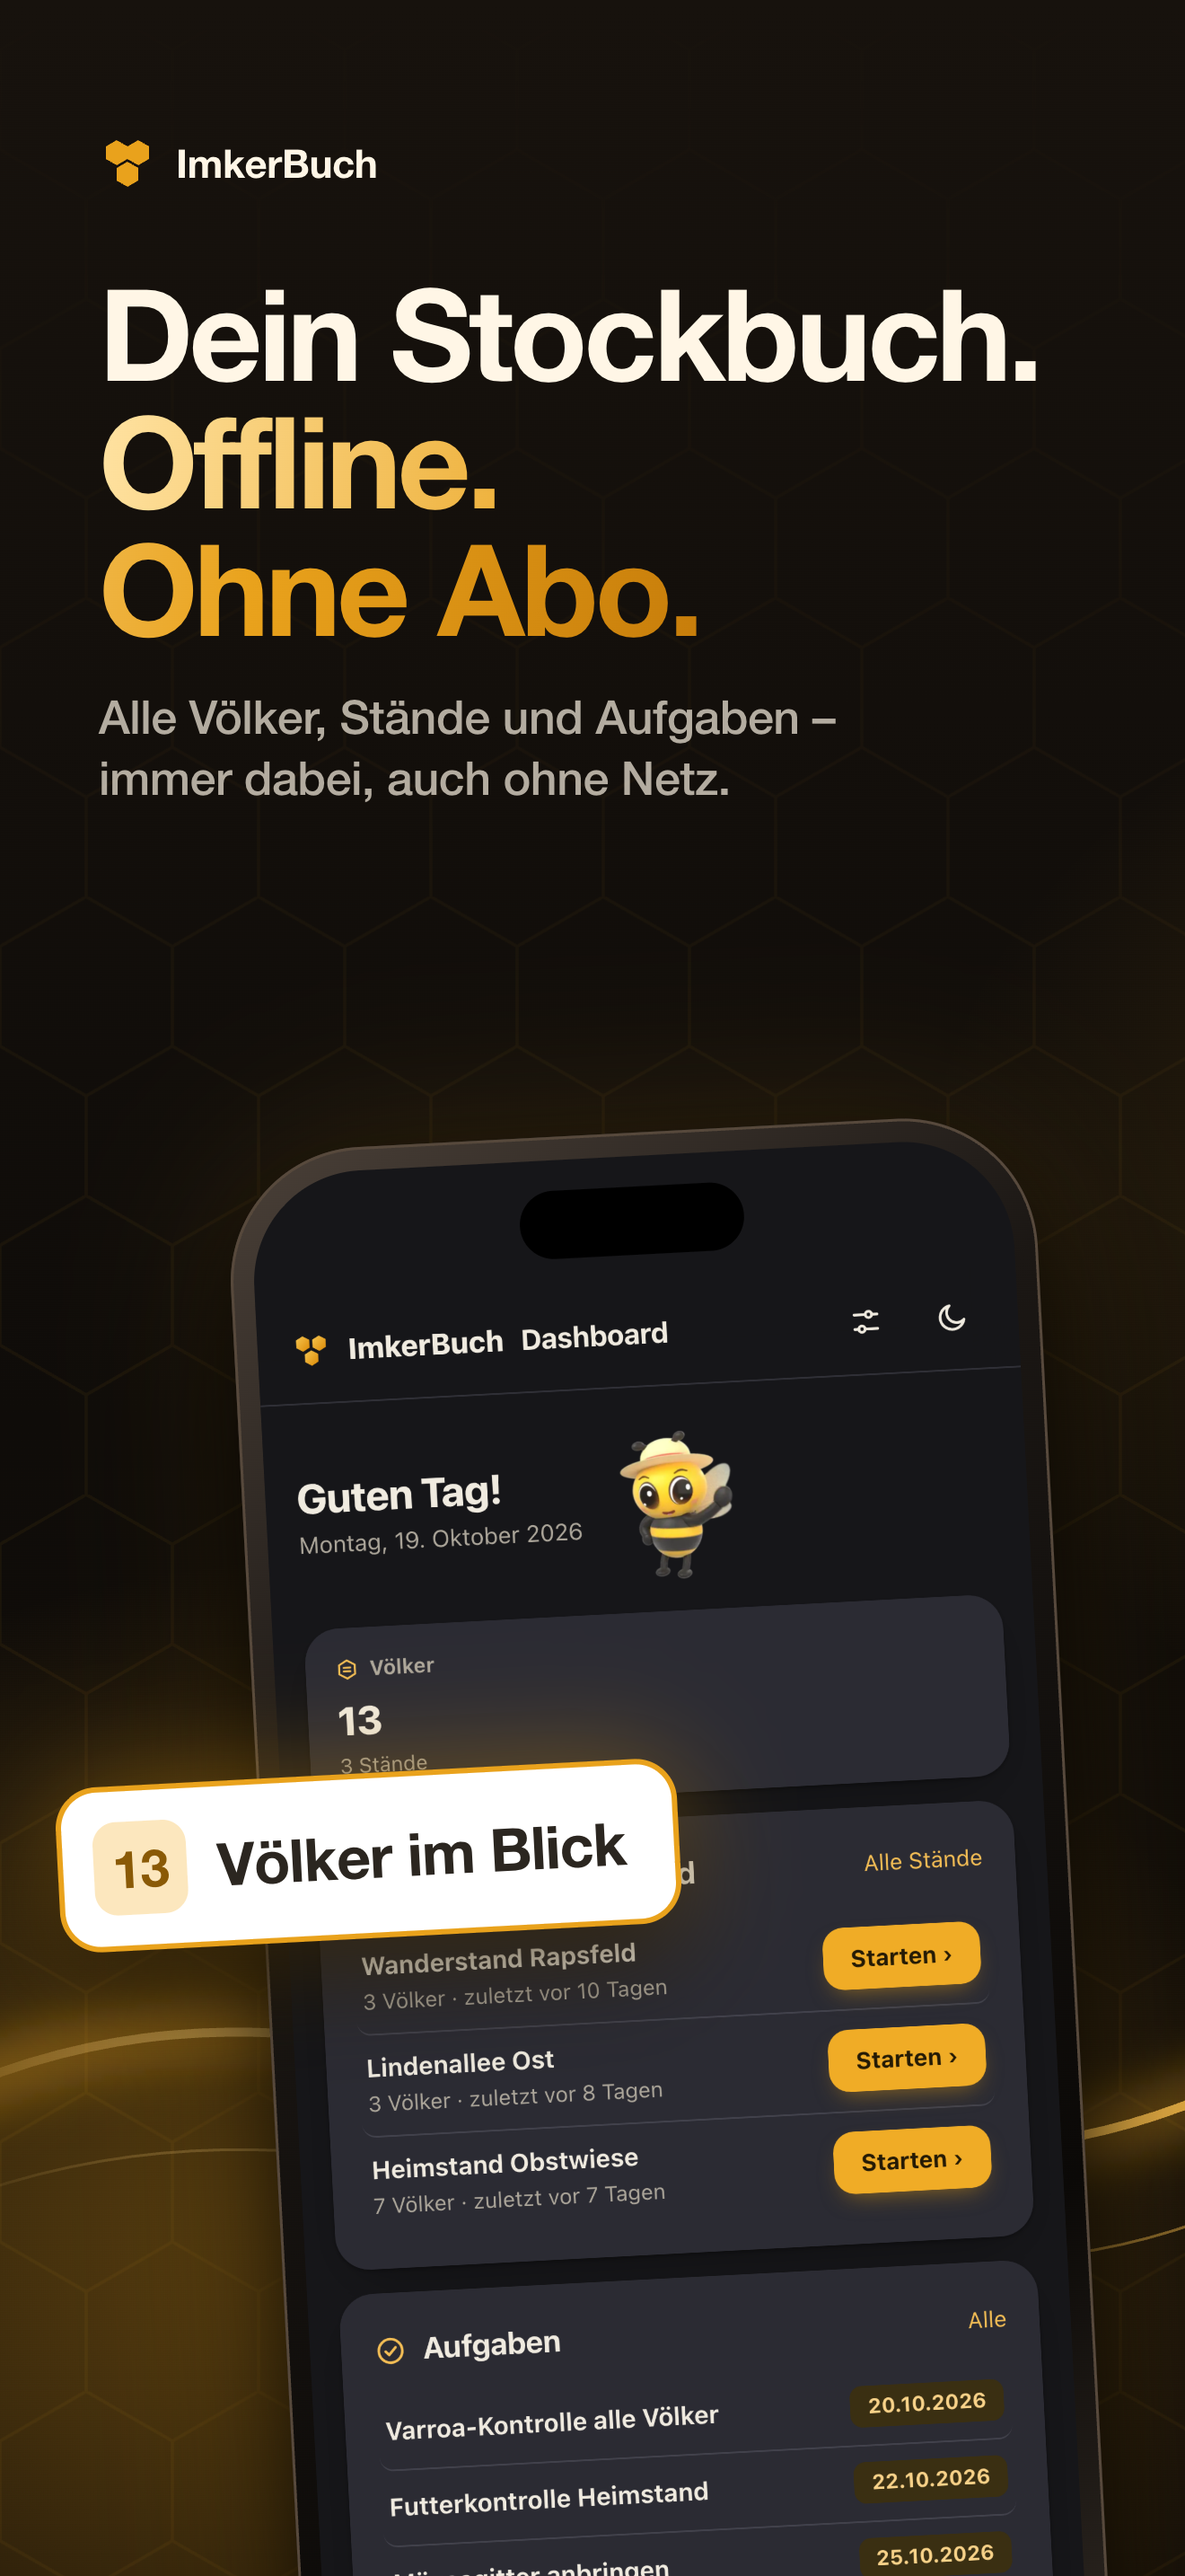
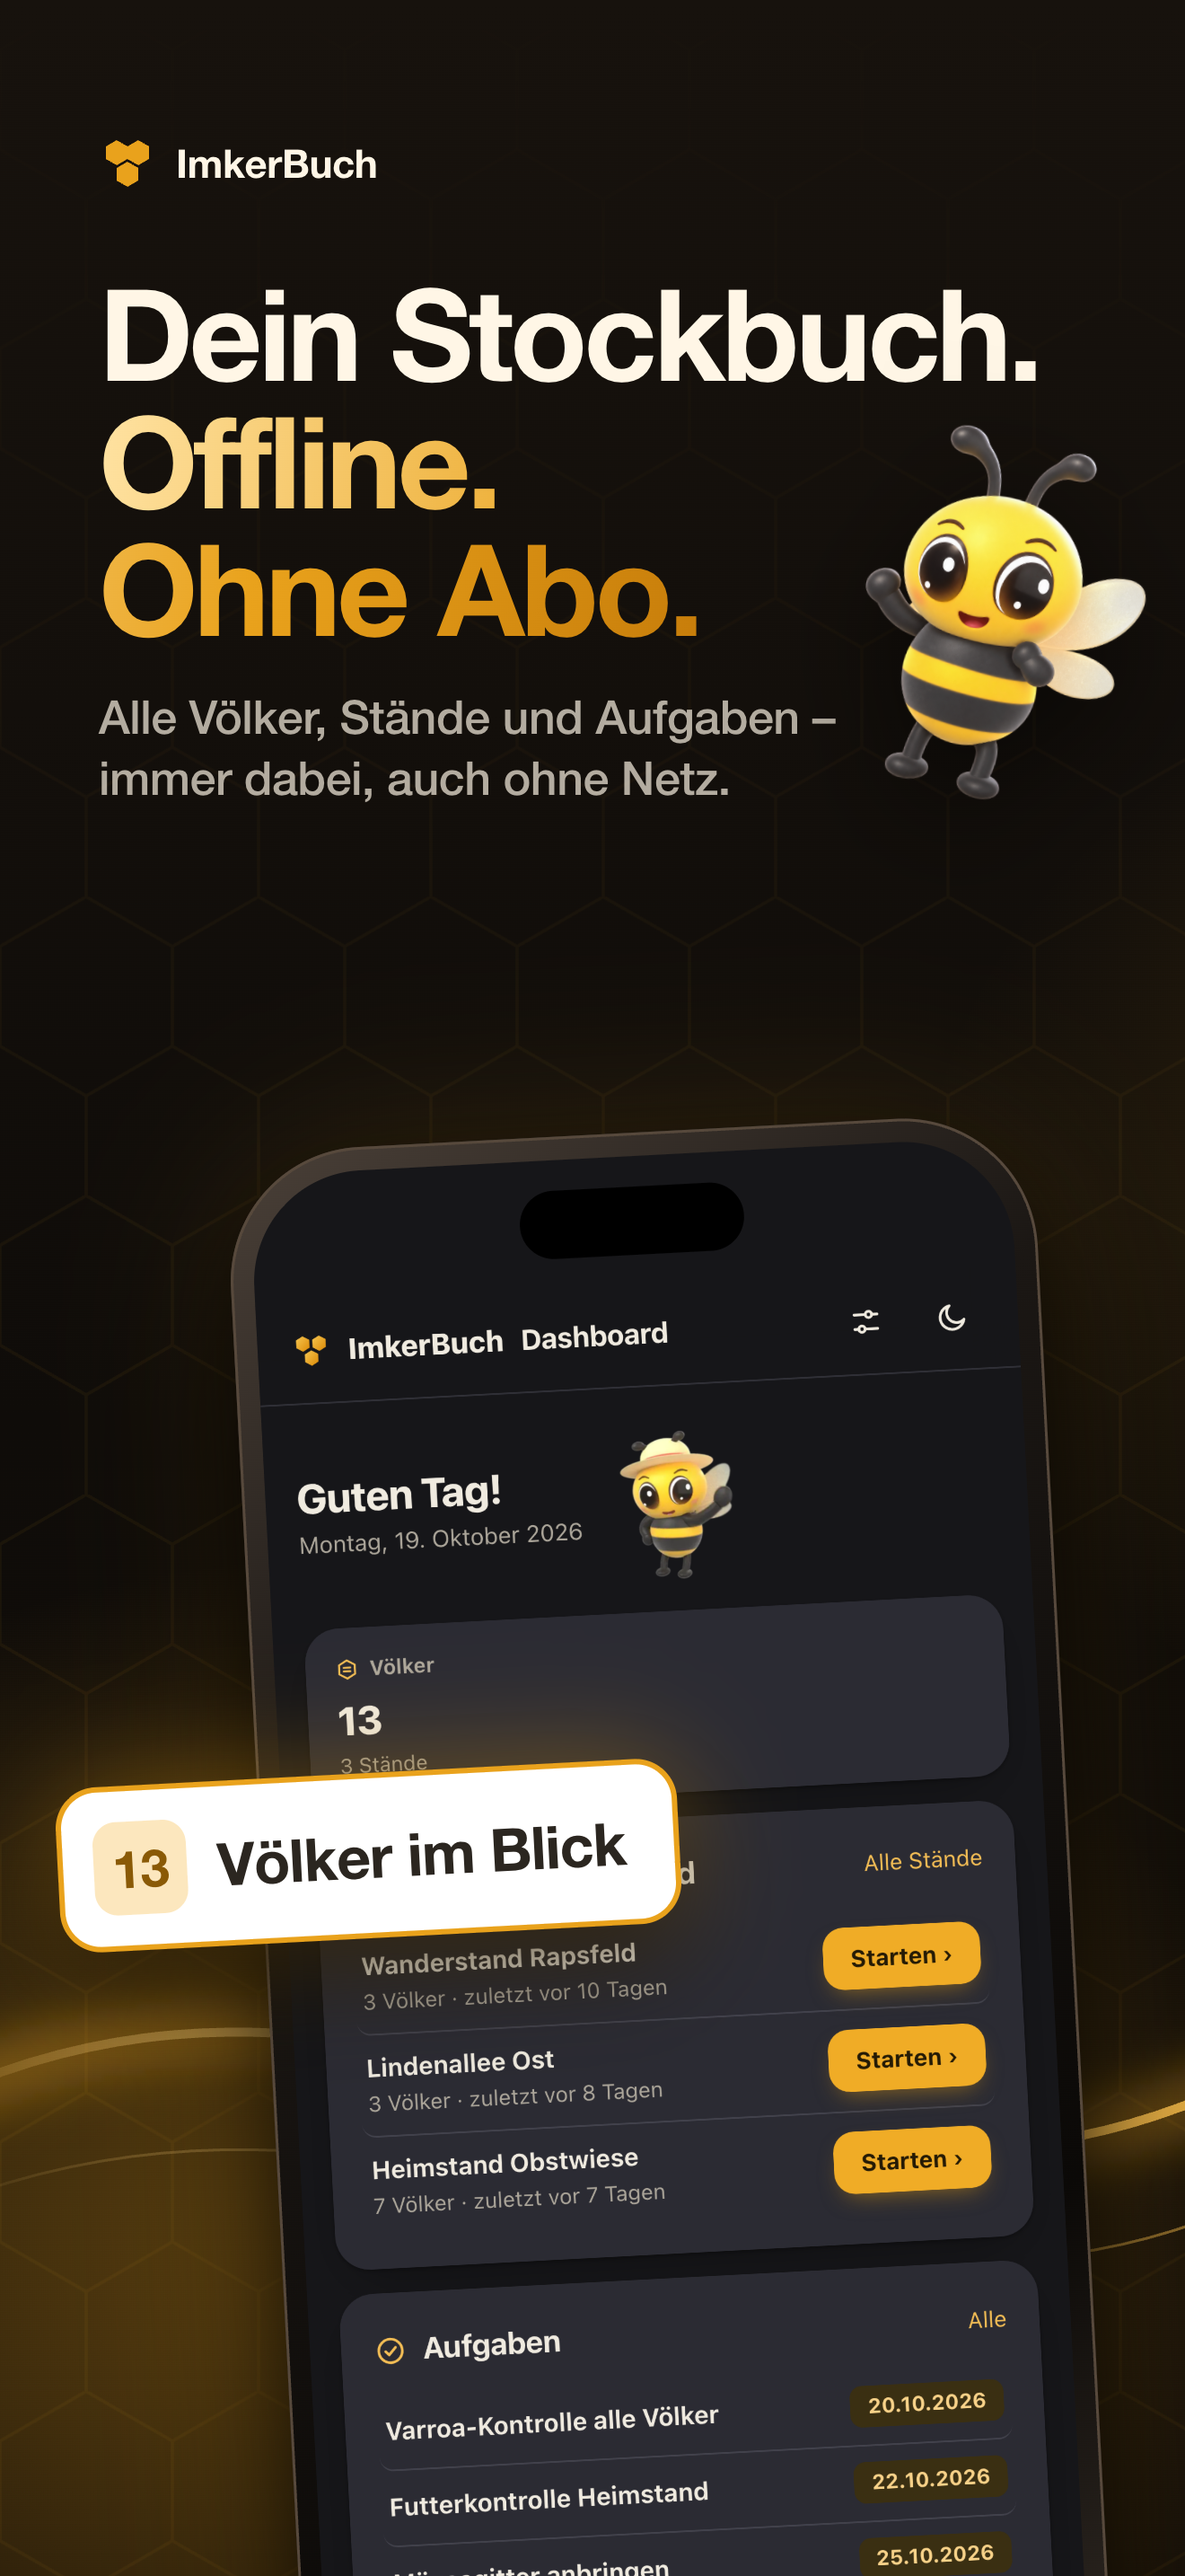
Store-Bilder: Bild 2 = Funktions-Wand (18 Bereiche, Tiefe für Imkerbetriebe), große Imme von Julian; Durchsicht wandert auf Bild 4

Changed region(s): [[0.7144, 0.1552, 0.9629, 0.3103]]

diff --git a/store-bilder/studio.html b/store-bilder/studio.html
@@ -58,6 +58,16 @@
     background: #FFFFFF; color: #2B2620; font-size: 66px; font-weight: 700; letter-spacing: -1px;
     box-shadow: 0 0 0 6px var(--honig), 0 50px 110px rgba(0,0,0,.55), 0 0 120px rgba(233,162,28,.45); }
   .pop .zahl { width: 104px; height: 104px; border-radius: 26px; background: #FCE7BE; color: #8A5A06; display: grid; place-items: center; font-size: 58px; }
+  /* Funktions-Wand (Bild 2) */
+  .wand { position: absolute; left: 80px; right: 80px; top: 1170px; display: grid; grid-template-columns: repeat(3, 1fr); gap: 26px; }
+  .kachel { position: relative; height: 252px; padding: 34px 30px; border-radius: 40px; background: rgba(34,27,20,.80);
+    border: 2px solid rgba(255,210,122,.20); backdrop-filter: blur(24px); -webkit-backdrop-filter: blur(24px);
+    box-shadow: 0 30px 70px rgba(0,0,0,.40); color: var(--creme); display: flex; flex-direction: column; justify-content: flex-end; }
+  .kachel .ic { position: absolute; top: 30px; left: 30px; width: 84px; height: 84px; border-radius: 24px;
+    background: linear-gradient(145deg, #FFD27A, #E9A21C); display: grid; place-items: center; }
+  .kachel .ic svg { width: 48px; height: 48px; stroke: #3A2604; }
+  .kachel b { font-size: 44px; font-weight: 700; letter-spacing: -.8px; line-height: 1.1; }
+  .kachel small { font-size: 31px; color: rgba(255,246,230,.60); margin-top: 6px; font-weight: 500; }
   .biene { position: absolute; filter: drop-shadow(0 40px 60px rgba(0,0,0,.5)); }
 </style>
 </head>
@@ -89,17 +99,13 @@
       <img src="roh/dashboard%SUFFIX%.png" alt="">
     </div></div>
     <div class="pop" style="left:70px; top:1980px; transform: rotate(-3deg);"><span class="zahl">13</span>Völker im Blick</div>
+    <img class="biene" src="imme-gross.png" style="left:950px; top:470px; width:330px; transform: rotate(6deg);" alt="">
   </section>
 
-  <!-- 2 · Kernhandlung -->
+  <!-- 2 · Tiefe: vom Hobby bis zum Imkerbetrieb -->
   <section class="feld">
-    <div class="titel"><h1>Durchsicht<br>am Stand.</h1><p>Eine Frage pro Bildschirm,<br>große Knöpfe – <em style="font-style:normal;color:#FFD27A">auch mit Handschuhen.</em></p></div>
-    <div class="phone" style="left:210px; top:1120px;"><div class="screen">
-      <div class="status"><span></span><div class="insel"></div><span class="rechts">%STATUS%</span></div>
-      <img src="roh/durchsicht%SUFFIX%.png" alt="">
-    </div></div>
-    <div class="pop" style="left:700px; top:2262px; transform: rotate(2deg);"><span class="zahl">4</span>gut</div>
-    <img class="biene" src="../assets/bini/happy.webp" style="left:930px; top:850px; width:340px; transform: rotate(8deg);" alt="">
+    <div class="titel"><h1>Mehr als ein<br>Stockbuch.<br><em>Dein ganzer<br>Imkerbetrieb.</em></h1><p>Vom ersten Volk bis zur Berufsimkerei.</p></div>
+    <div class="wand"><div class="kachel"><span class="ic"><svg viewBox="0 0 24 24" fill="none" stroke-width="1.9" stroke-linecap="round" stroke-linejoin="round"><path d="M4 7h16v5H4zM4 12h16v6H4zM9 18v2M15 18v2M8 9.5h8"/></svg></span><b>Stockkarte</b><small>jede Durchsicht</small></div><div class="kachel"><span class="ic"><svg viewBox="0 0 24 24" fill="none" stroke-width="1.9" stroke-linecap="round" stroke-linejoin="round"><path d="M4 18h16l-1.5-9-4.5 4-2-6-2 6-4.5-4z"/></svg></span><b>Königinnen</b><small>Herkunft, Bewertung</small></div><div class="kachel"><span class="ic"><svg viewBox="0 0 24 24" fill="none" stroke-width="1.9" stroke-linecap="round" stroke-linejoin="round"><circle cx="11" cy="11" r="6"/><path d="M20 20l-4.5-4.5"/></svg></span><b>Varroa</b><small>Befall im Verlauf</small></div><div class="kachel"><span class="ic"><svg viewBox="0 0 24 24" fill="none" stroke-width="1.9" stroke-linecap="round" stroke-linejoin="round"><path d="M5 4h11a3 3 0 0 1 3 3v13H8a3 3 0 0 1-3-3z"/><path d="M5 17a3 3 0 0 1 3-3h11"/></svg></span><b>Bestandsbuch</b><small>nach TAMG, als PDF</small></div><div class="kachel"><span class="ic"><svg viewBox="0 0 24 24" fill="none" stroke-width="1.9" stroke-linecap="round" stroke-linejoin="round"><path d="M5 8h14l-1.5 12h-11zM8 8a4 4 0 0 1 8 0"/></svg></span><b>Fütterung</b><small>mit Futterrechner</small></div><div class="kachel"><span class="ic"><svg viewBox="0 0 24 24" fill="none" stroke-width="1.9" stroke-linecap="round" stroke-linejoin="round"><path d="M3 7h11v9H3zM14 10h4l3 3v3h-7"/><circle cx="7" cy="17.5" r="1.5"/><circle cx="17" cy="17.5" r="1.5"/></svg></span><b>Wanderungen</b><small>Trachten, Stände</small></div><div class="kachel"><span class="ic"><svg viewBox="0 0 24 24" fill="none" stroke-width="1.9" stroke-linecap="round" stroke-linejoin="round"><path d="M7 7h10v12a2 2 0 0 1-2 2H9a2 2 0 0 1-2-2zM8 3h8v4H8z"/><path d="M7 12h10"/></svg></span><b>Ernte & Glas</b><small>mit Losnummern</small></div><div class="kachel"><span class="ic"><svg viewBox="0 0 24 24" fill="none" stroke-width="1.9" stroke-linecap="round" stroke-linejoin="round"><path d="M3 12V4h8l10 10-8 8z"/><circle cx="7.5" cy="8.5" r="1.2"/></svg></span><b>Verkauf</b><small>Abnehmer, Lager</small></div><div class="kachel"><span class="ic"><svg viewBox="0 0 24 24" fill="none" stroke-width="1.9" stroke-linecap="round" stroke-linejoin="round"><path d="M6 3h12v18l-3-2-3 2-3-2-3 2z"/><path d="M9 8h6M9 12h6"/></svg></span><b>Rechnungen</b><small>fertig als PDF</small></div><div class="kachel"><span class="ic"><svg viewBox="0 0 24 24" fill="none" stroke-width="1.9" stroke-linecap="round" stroke-linejoin="round"><rect x="3" y="6" width="18" height="13" rx="2"/><path d="M3 10h18M7 15h3"/></svg></span><b>Kassenbuch</b><small>alle Buchungen</small></div><div class="kachel"><span class="ic"><svg viewBox="0 0 24 24" fill="none" stroke-width="1.9" stroke-linecap="round" stroke-linejoin="round"><path d="M5 19c0-9 6-14 15-14 0 9-5 15-14 15zM5 19l7-7"/></svg></span><b>Bio-Kontrolle</b><small>Öko-Unterlagen</small></div><div class="kachel"><span class="ic"><svg viewBox="0 0 24 24" fill="none" stroke-width="1.9" stroke-linecap="round" stroke-linejoin="round"><path d="M12 3l8 3v6c0 5-3.5 8-8 9-4.5-1-8-4-8-9V6z"/><path d="M9 12l2 2 4-4"/></svg></span><b>Hygieneplan</b><small>dokumentiert</small></div><div class="kachel"><span class="ic"><svg viewBox="0 0 24 24" fill="none" stroke-width="1.9" stroke-linecap="round" stroke-linejoin="round"><path d="M5 16l1.5-6h11L19 16"/><rect x="3" y="12" width="18" height="5" rx="1.5"/><circle cx="7.5" cy="17.5" r="1.2"/><circle cx="16.5" cy="17.5" r="1.2"/></svg></span><b>Fahrtenbuch</b><small>Kilometer je Stand</small></div><div class="kachel"><span class="ic"><svg viewBox="0 0 24 24" fill="none" stroke-width="1.9" stroke-linecap="round" stroke-linejoin="round"><circle cx="12" cy="12" r="8"/><path d="M12 8v4l3 2"/></svg></span><b>Zeiterfassung</b><small>Stunden je Arbeit</small></div><div class="kachel"><span class="ic"><svg viewBox="0 0 24 24" fill="none" stroke-width="1.9" stroke-linecap="round" stroke-linejoin="round"><path d="M4 8l8-4 8 4v8l-8 4-8-4z"/><path d="M4 8l8 4 8-4M12 12v8"/></svg></span><b>Material</b><small>Bestand, Verbrauch</small></div><div class="kachel"><span class="ic"><svg viewBox="0 0 24 24" fill="none" stroke-width="1.9" stroke-linecap="round" stroke-linejoin="round"><path d="M6 16V11a6 6 0 0 1 12 0v5l1.5 2h-15z"/><path d="M10 20a2 2 0 0 0 4 0"/></svg></span><b>Erinnerungen</b><small>Aufgaben, Fristen</small></div><div class="kachel"><span class="ic"><svg viewBox="0 0 24 24" fill="none" stroke-width="1.9" stroke-linecap="round" stroke-linejoin="round"><path d="M3 10l9-6 9 6M5 10v8M9.5 10v8M14.5 10v8M19 10v8M3 20h18"/></svg></span><b>Meldungen</b><small>für Ämter, TSK</small></div><div class="kachel"><span class="ic"><svg viewBox="0 0 24 24" fill="none" stroke-width="1.9" stroke-linecap="round" stroke-linejoin="round"><path d="M4 20V10M10 20V4M16 20v-7M22 20H2"/></svg></span><b>Statistiken</b><small>Ertrag je Volk</small></div></div>
   </section>
 
   <!-- 3 · Vertrauen -->

diff --git a/store-bilder/teil-durchsicht.html b/store-bilder/teil-durchsicht.html
@@ -1,0 +1,11 @@
+  <!-- 2 · Kernhandlung -->
+  <section class="feld">
+    <div class="titel"><h1>Durchsicht<br>am Stand.</h1><p>Eine Frage pro Bildschirm,<br>große Knöpfe – <em style="font-style:normal;color:#FFD27A">auch mit Handschuhen.</em></p></div>
+    <div class="phone" style="left:210px; top:1120px;"><div class="screen">
+      <div class="status"><span></span><div class="insel"></div><span class="rechts">%STATUS%</span></div>
+      <img src="roh/durchsicht%SUFFIX%.png" alt="">
+    </div></div>
+    <div class="pop" style="left:700px; top:2262px; transform: rotate(2deg);"><span class="zahl">4</span>gut</div>
+    <img class="biene" src="../assets/bini/happy.webp" style="left:930px; top:850px; width:340px; transform: rotate(8deg);" alt="">
+  </section>
+
